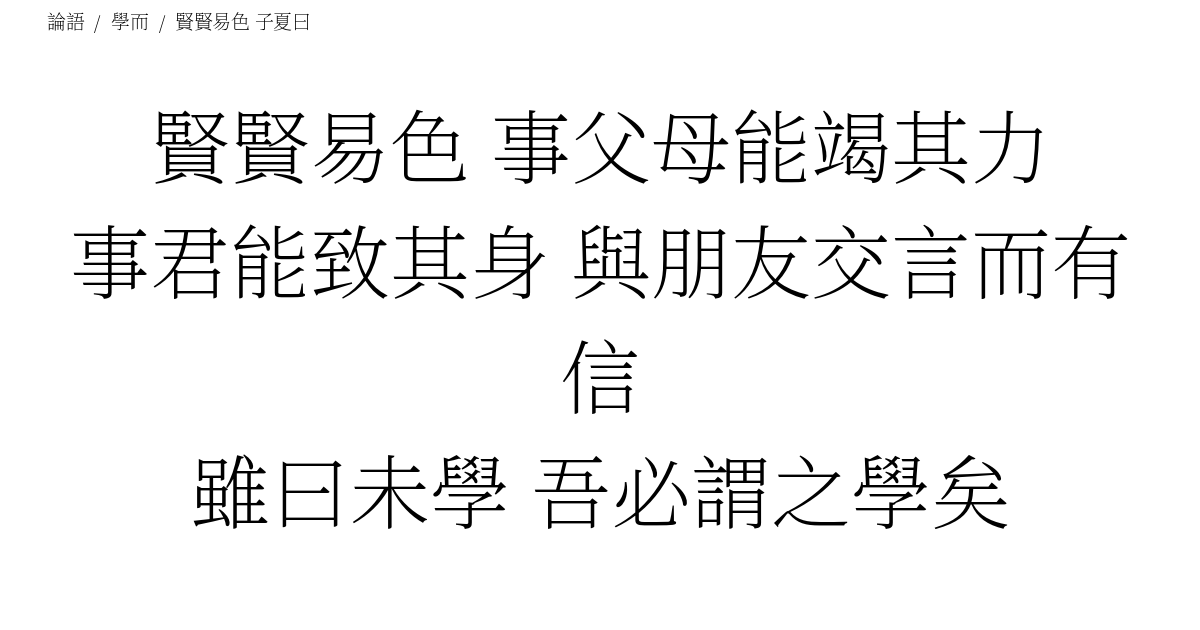
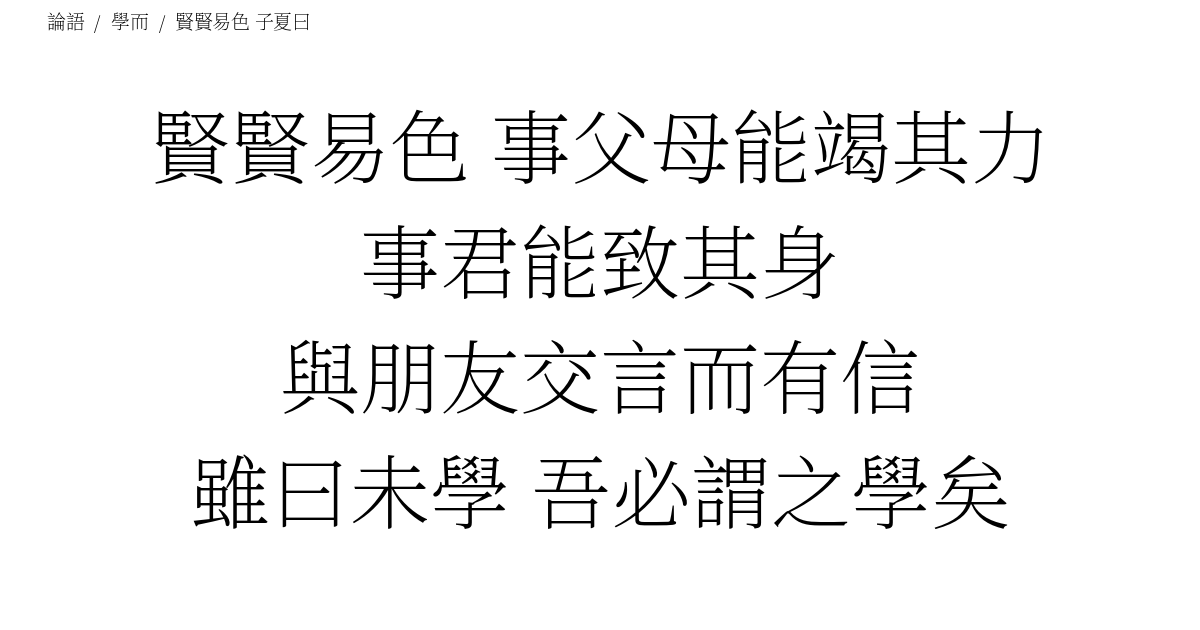
update content

Changed region(s): [[0.0617, 0.3619, 0.9558, 0.4825], [0.2158, 0.5429, 0.7708, 0.6635]]

diff --git a/docs/論語/學而/賢賢易色.html b/docs/論語/學而/賢賢易色.html
@@ -73,7 +73,8 @@
                                     <div class="col-lg-12 col-md-12">
                                         <h1 class="text-chinese text-chinese-content">
                                             賢賢易色 事父母能竭其力
-事君能致其身 與朋友交言而有信
+事君能致其身
+與朋友交言而有信
 雖曰未學 吾必謂之學矣
                                         </h1>
                                     </div>
@@ -92,7 +93,7 @@
                                 <a href="https://twitter.com/intent/tweet?url=https%3A%2F%2Fnovemberizing.github.io%2Forientalism%2F%25E8%25AB%2596%25E8%25AA%259E%2F%25E5%25AD%25B8%25E8%2580%258C%2F%25E8%25B3%25A2%25E8%25B3%25A2%25E6%2598%2593%25E8%2589%25B2.html&hashtags=%E8%B3%A2%E8%B3%A2%E6%98%93%E8%89%B2" target="_blank" class="text-secondary">
                                     <i class="fab fa-twitter fa-lg fa-fw"></i>
                                 </a>
-                                <a href="https://www.google.com/search?q=%E8%B3%A2%E8%B3%A2%E6%98%93%E8%89%B2%20%E4%BA%8B%E7%88%B6%E6%AF%8D%E8%83%BD%E7%AB%AD%E5%85%B6%E5%8A%9B%0A%E4%BA%8B%E5%90%9B%E8%83%BD%E8%87%B4%E5%85%B6%E8%BA%AB%20%E8%88%87%E6%9C%8B%E5%8F%8B%E4%BA%A4%E8%A8%80%E8%80%8C%E6%9C%89%E4%BF%A1%0A%E9%9B%96%E6%9B%B0%E6%9C%AA%E5%AD%B8%20%E5%90%BE%E5%BF%85%E8%AC%82%E4%B9%8B%E5%AD%B8%E7%9F%A3" target="_blank" class="text-secondary">
+                                <a href="https://www.google.com/search?q=%E8%B3%A2%E8%B3%A2%E6%98%93%E8%89%B2%20%E4%BA%8B%E7%88%B6%E6%AF%8D%E8%83%BD%E7%AB%AD%E5%85%B6%E5%8A%9B%0A%E4%BA%8B%E5%90%9B%E8%83%BD%E8%87%B4%E5%85%B6%E8%BA%AB%0A%E8%88%87%E6%9C%8B%E5%8F%8B%E4%BA%A4%E8%A8%80%E8%80%8C%E6%9C%89%E4%BF%A1%0A%E9%9B%96%E6%9B%B0%E6%9C%AA%E5%AD%B8%20%E5%90%BE%E5%BF%85%E8%AC%82%E4%B9%8B%E5%AD%B8%E7%9F%A3" target="_blank" class="text-secondary">
                                     <i class="fab fa-google fa-lg fa-fw"></i>
                                 </a>
                                 <a href="#" class="text-secondary">
